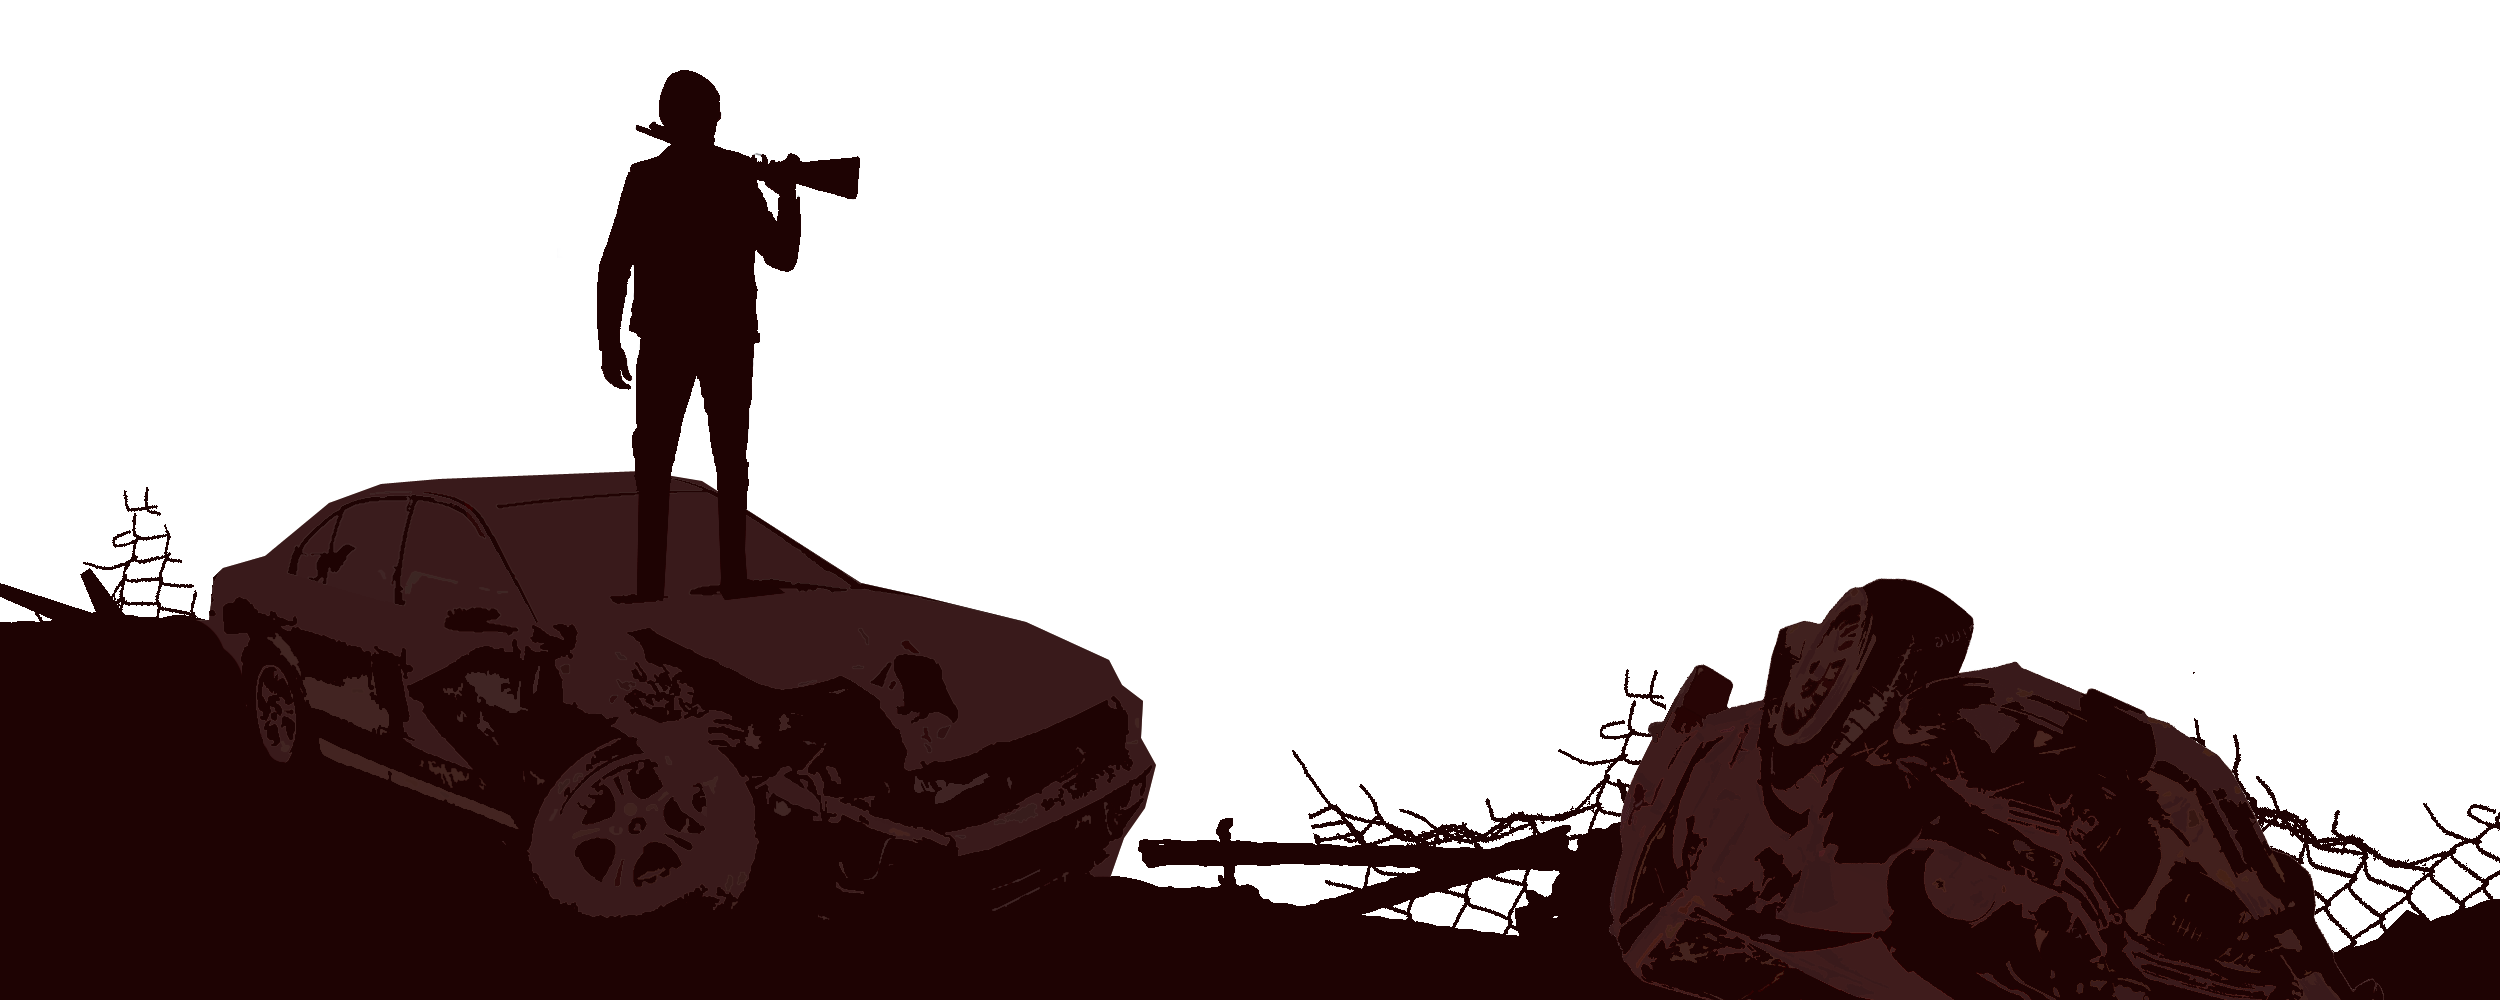
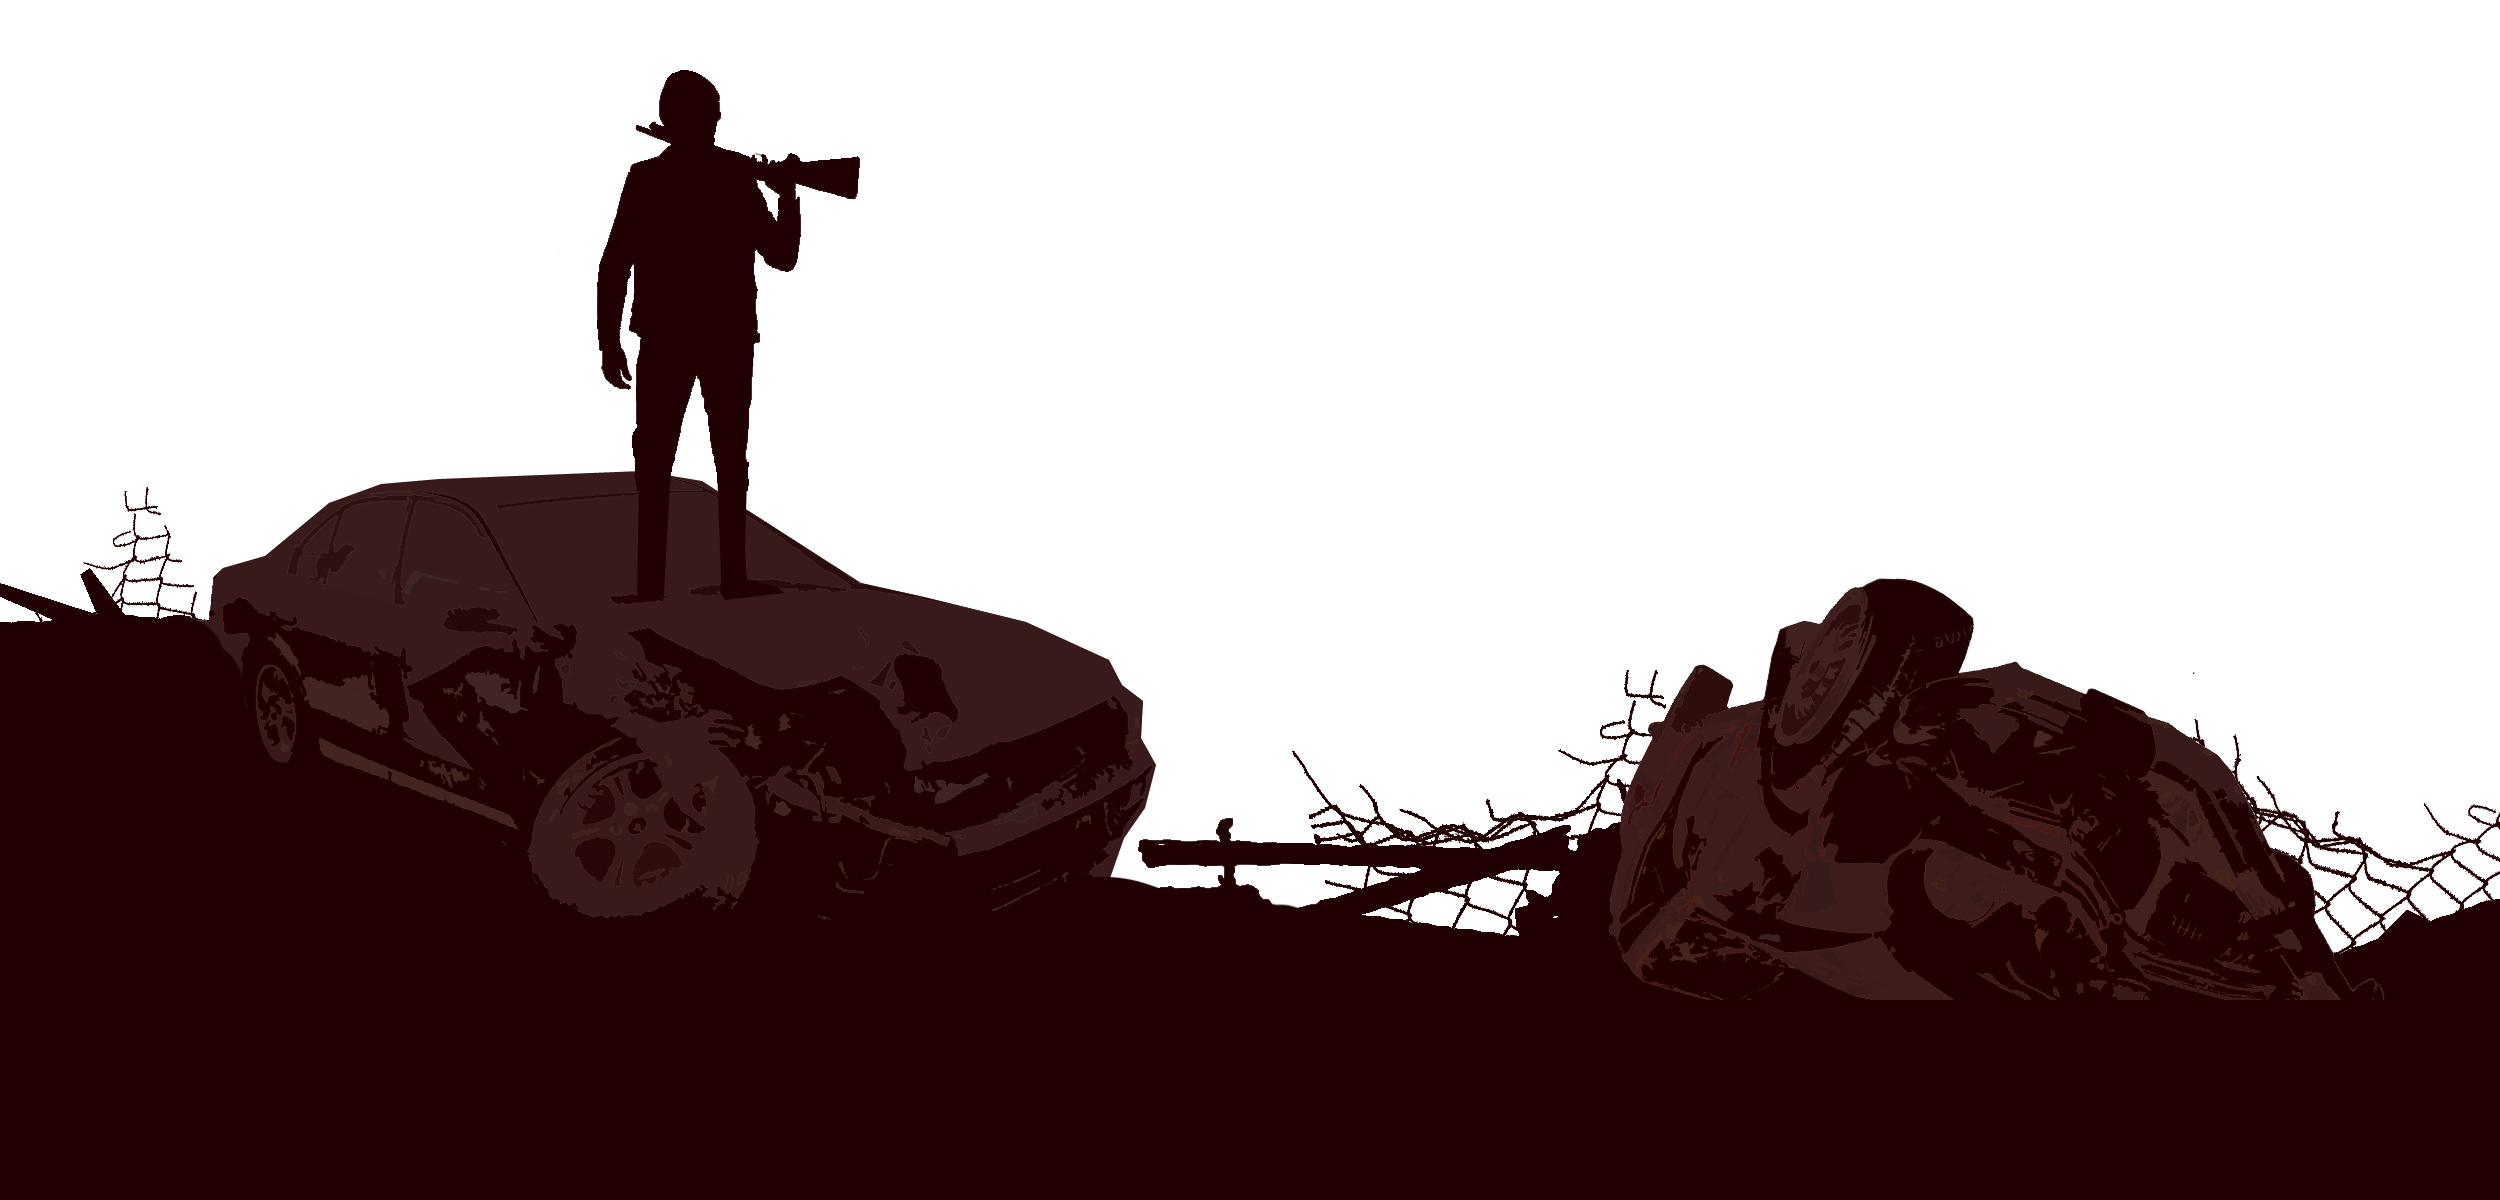
kakao

Changed region(s): [[0.0, 0.062, 1.0, 1.0], [0.2184, 0.186, 0.2496, 0.248], [0.6552, 0.992, 0.6864, 1.0]]

diff --git a/web/static/css/app.css b/web/static/css/app.css
@@ -3,9 +3,9 @@
 body {
   padding: 0;
   margin: 0;
-  background-color: #1d0303;
-  font-family: 'Playfair Display', serif;
-  color: #fff;
+  background-color: #210002;
+  font-family: 'Roboto Condensed', sans-serif;
+  color: #ffaf1b;
 }
 
 #zombie {
@@ -15,7 +15,7 @@ body {
 }
 
 #content {
-  background-color: #1d0303;
+  background-color: #210002;
 }
 
 .layer {
@@ -35,7 +35,7 @@ body {
 }
 
 .first-section {
-    background-color: #1d0303;
+    background-color: #210002;
   padding: 50px 0 20px 0;
 }
 
@@ -47,10 +47,12 @@ body {
 h1 {
   line-height: 120%;
   margin-bottom: 30px;
+  font-size: 50px;
+  text-align: center;
 }
 
 p {
-  color: #ede0d5;
+  color: #ffaf1b;
   font-size: 18px;
   line-height: 150%;
 }
@@ -80,11 +82,13 @@ p {
 }
 
 .layer-4 {
-  background-image: url("/images/front3.png");
+  background-image: url("/images/front.png");
+  background-position: bottom;
 }
 
 .layer-overlay {
   background-image: url("");
+  
 }
 
 @media only screen and (max-width: 768px) {
